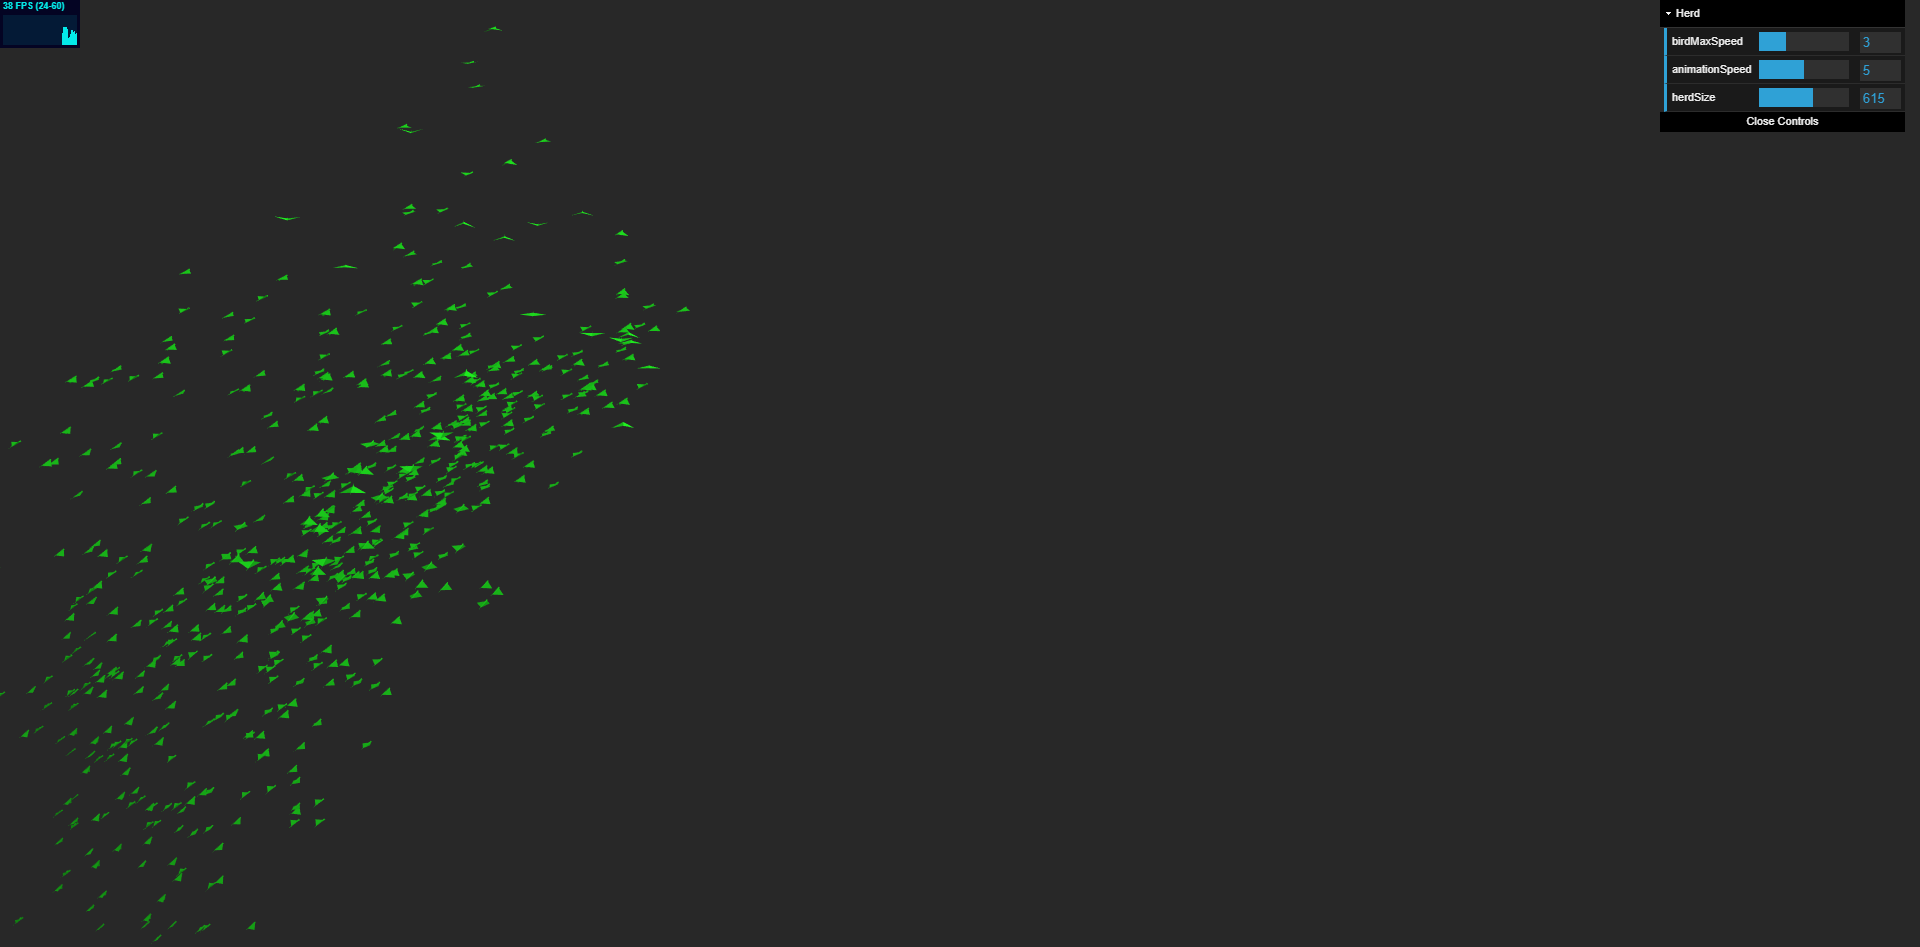
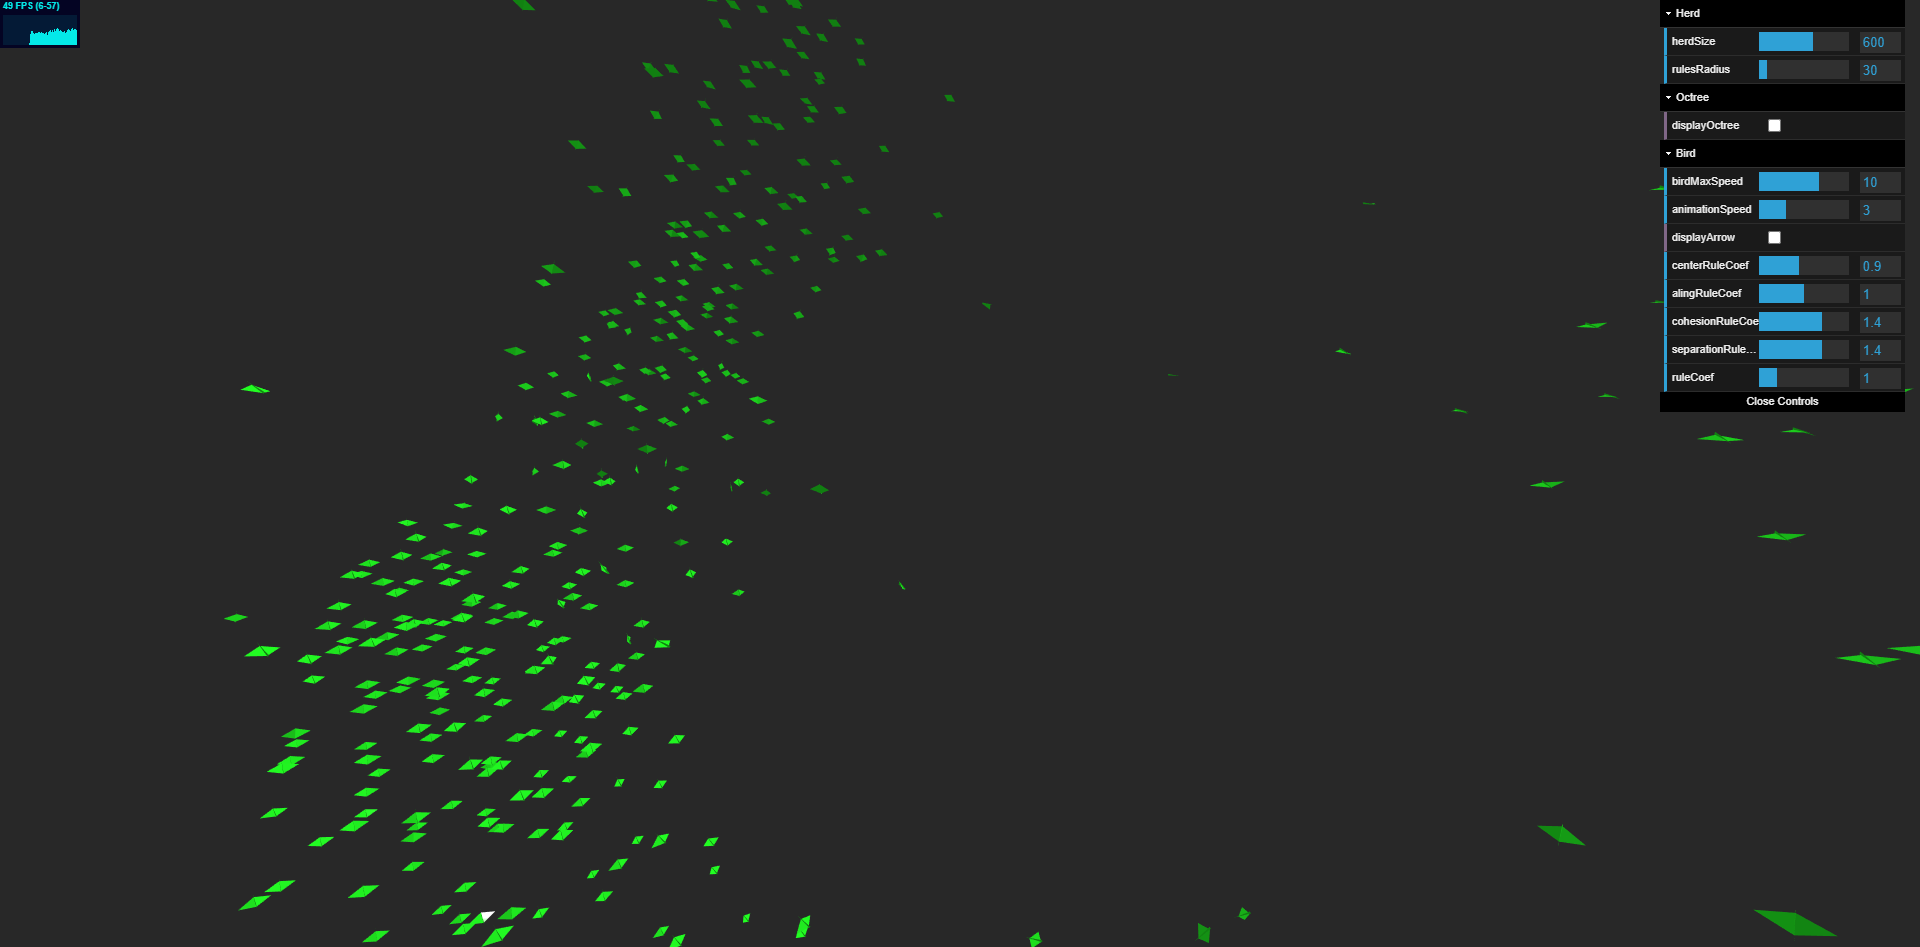
Boids Done

diff --git a/1_Boids/scripts.js b/1_Boids/scripts.js
@@ -2,7 +2,6 @@
 'use strict';
 import * as THREE from 'https://cdn.jsdelivr.net/npm/three@0.116.1/build/three.module.js';
 import { GUI } from 'https://cdn.jsdelivr.net/npm/three@0.116.1/examples/jsm/libs/dat.gui.module.js';
-import { OrbitControls } from 'https://cdn.jsdelivr.net/npm/three@0.116.1/examples/jsm/controls/OrbitControls.js';
 import { GLTFLoader } from 'https://cdn.jsdelivr.net/npm/three@0.116.1/examples/jsm/loaders/GLTFLoader.js';
 import { Bird } from './bird.js';
 import { Octree } from './Octree.js';
@@ -60,12 +59,18 @@ const octreeParam = {
 
 const birdParam = {
     birdMaxSpeed: 10,
-    animationSpeed: 5,
+    animationSpeed: 3,
     displayArrow: false,
     centerRuleCoef: 0.9,
     alingRuleCoef: 1,
     cohesionRuleCoef: 1.4,
     separationRuleCoef: 1.4
+};
+
+const predatorParam = {
+    position: new THREE.Vector3(10000, 10000, 0),
+    radius: 200,
+    ruleCoef: 1
 };
 
 // initialize canvas
@@ -85,7 +90,6 @@ function init () {
     camera.lookAt(lookAtCenter);
 
     scene.add(camera);
-    new OrbitControls(camera, renderer.domElement);
 
     container.appendChild(renderer.domElement);
 
@@ -107,6 +111,7 @@ function init () {
             tree.add(bird);
             herd.push(bird);
         }
+        animate();
     }, undefined, function (error) {
         console.error(error);
     });
@@ -120,6 +125,10 @@ function init () {
         }
     });
 
+    window.addEventListener('mousemove', function (e) {
+        predatorParam.position.x = e.clientX - window.innerWidth/2;
+        predatorParam.position.y = -(e.clientY - window.innerHeight/2);
+    }, false);
     scene.add(tree);
 
     if (octreeParam.displayOctree) {
@@ -139,7 +148,7 @@ function initGUI () {
     octreeFolder.open();
     birdFolder.open();
 
-    birdFolder.add(birdParam, 'birdMaxSpeed', 0.01, 10).step(0.01).onChange(function (value) {
+    birdFolder.add(birdParam, 'birdMaxSpeed', 0.01, 15).step(0.01).onChange(function (value) {
         for (const bird of herd) {
             bird.maxSpeed = Number(value);
         }
@@ -174,6 +183,8 @@ function initGUI () {
             bird.setSeparationRule(Number(value));
         }
     });
+    birdFolder.add(predatorParam, 'ruleCoef', 0, 5).step(0.1).listen();
+
     herdFolder.add(herdParam, 'herdSize', 1, 1000).step(1).onChange(function (value) {
         const diff = Number(value) - herd.length;
         for (let i = 0; i < Math.abs(diff); i++) {
@@ -211,7 +222,7 @@ function render () {
         for (const bird of herd) {
             const birdsInRadius = tree.getItemsInRadius(bird.position, herdParam.rulesRadius);
             // const birdsInRadius = bird.parent.children;
-            bird.update(delta, birdsInRadius);
+            bird.update(delta, birdsInRadius, predatorParam);
             tree.updateObject(bird);
         }
         tree.update();
@@ -220,6 +231,8 @@ function render () {
             treeMesh = tree.generateGeometry();
             scene.add(treeMesh);
         }
+        predatorParam.position.x = 10000;
+        predatorParam.position.y = 10000;
         renderer.render(scene, camera);
     }
 }
@@ -227,5 +240,5 @@ function render () {
 (function () {
     init();
     initGUI();
-    animate();
+    // animate();
 })();

diff --git a/1_Boids/bird.js b/1_Boids/bird.js
@@ -36,8 +36,6 @@ class Bird extends THREE.Group {
         const clipDuration = this.animation[0].duration;
         this.action.time = Math.random() * clipDuration;
 
-        this.scale.set(5, 5, 5);
-
         // Play
         this.action.play();
 
@@ -121,8 +119,18 @@ class Bird extends THREE.Group {
         }
         return steering;
     }
+    predatorRule (predator) {
+        const dir = new THREE.Vector3().subVectors(this.position, predator.position);
+        let steering = new THREE.Vector3();
+        dir.z = 0;
+        const dist = dir.length();
+        if (dist < predator.radius) {
+            steering = dir;
+        }
+        return steering;
+    }
 
-    flock (herd) {
+    flock (herd, predator) {
         // Reset acceleration to 0
         this.acceleration.set(0, 0, 0);
 
@@ -141,11 +149,15 @@ class Bird extends THREE.Group {
         // Applie separationRule
         const separationRule = this.separationRule(herd).multiplyScalar(this.separationRuleCoef);
         this.acceleration.add(separationRule);
+
+        // Applie predatorRule
+        const predatorRule = this.predatorRule(predator).multiplyScalar(predator.ruleCoef);
+        this.acceleration.add(predatorRule);
     }
 
-    update (delta, herd) {
+    update (delta, herd, predator) {
         // Update Bird
-        this.flock(herd);
+        this.flock(herd, predator);
 
         // Update position, speed, accelaration
         this.position.add(this.velocity);

diff --git a/1_Boids/index.html b/1_Boids/index.html
@@ -1,6 +1,10 @@
 <html>
 	<head>
 		<title>Three.js Boids</title>
+		<script src="https://cdn.jsdelivr.net/npm/stats.js@0.17.0/build/stats.min.js"></script>
+		<link rel="modulepreload" href="./bird.js">
+		<link rel="modulepreload" href="./Octree.js">
+		<script type="module" src="./scripts.js"></script>
 		<style>
 			body { margin: 0; }
 			canvas { width: 640px; height: 360px }
@@ -8,7 +12,5 @@
 	</head>
 	<body>
 		<div id="canvas"></div>
-		<script src="https://cdn.jsdelivr.net/npm/stats.js@0.17.0/build/stats.min.js"></script>
-		<script type="module" src="./scripts.js"></script>
 	</body>
 </html>
